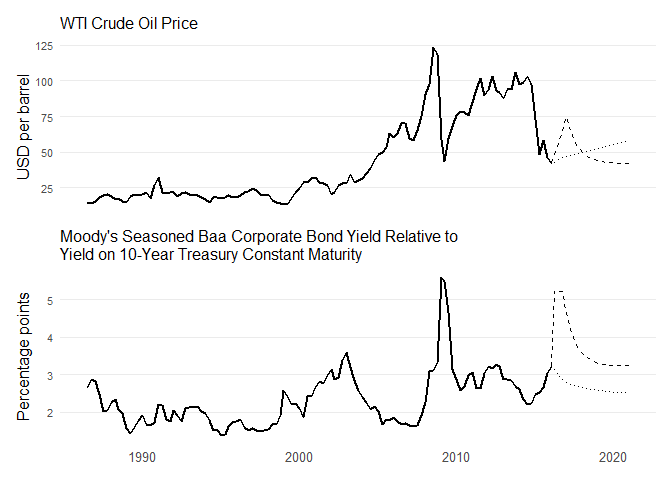
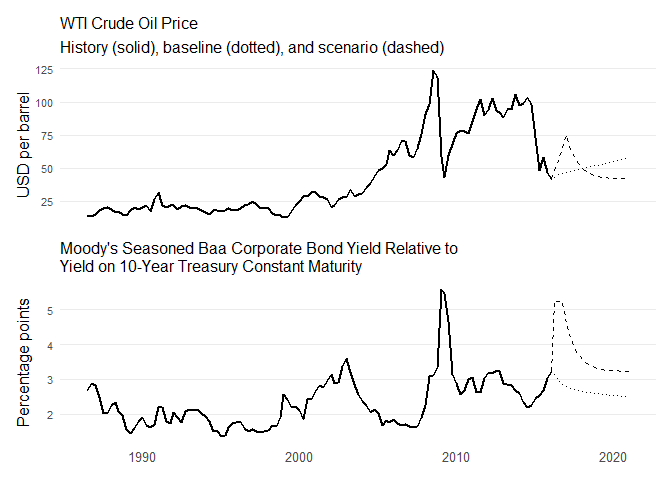
readme update

diff --git a/README.md b/README.md
@@ -76,10 +76,9 @@ compute a 20-quarter baseline (unconditional) forecast.
 ``` r
 suppressPackageStartupMessages({
 library(cforecast)
+library(tidyverse)
 library(vars)
-library(dplyr)
 library(lubridate)
-library(ggplot2)
 library(scales)
 library(patchwork)
 })
@@ -238,7 +237,7 @@ p_oil <- ggplot(df_plot_oil, aes(x = date)) +
   )+
   labs(
     title = "WTI Crude Oil Price",
-    #subtitle = "History (solid) and scenario (dashed)",
+    subtitle = "History (solid), baseline (dotted), and scenario (dashed)",
     x = NULL,
     y = "USD per barrel"
   ) +
@@ -270,9 +269,6 @@ suppressWarnings(combined_plot_scenarios)
 ```
 
 <img src="man/figures/README-unnamed-chunk-3-1.png" alt="" width="70%" />
-
-The object `cond_path` contains the multi-period conditioning trajectory
-supplied to the conditional forecasting procedure.
 
 ------------------------------------------------------------------------
 
@@ -421,6 +417,189 @@ an important distinction:
 The results emphasize the dominant role of the credit spread in shaping
 the conditional inflation forecast and the delayed, indirect influence
 of oil prices.
+
+------------------------------------------------------------------------
+
+------------------------------------------------------------------------
+
+## Creating and Analyzing Conditional Forecasts
+
+After examining the dynamic relationships estimated by the VAR and their
+implications for scenario transmission, we proceed to generate a
+conditional forecast.
+
+Creating a conditional forecast requires:
+
+- A fitted VAR model  
+- A matrix containing the imposed future paths (`cond_path`)  
+- The indices of the constrained variables (`cond_var`)
+
+The code below illustrates the implementation:
+
+``` r
+# Construct conditioning matrix
+cond_path <- cbind(BAA10YM_future, DCOILWTICO_future)
+
+# Generate conditional forecast
+fct_constr <- cforecast(
+  fit,
+  cond_path = cond_path,
+  cond_var  = 4:5
+)
+```
+
+The object `fct_constr` contains the full conditional forecast,
+including the projected paths of all variables in the system consistent
+with the imposed scenario.
+
+The figure below illustrates the conditional forecast of core inflation
+under the assumed scenario. The imposed widening in the corporate credit
+spread generates a pronounced disinflationary impulse at short horizons.
+Within the reduced-form VAR, this shock is accompanied by an implied
+accommodative response of the policy rate.
+
+The contribution of oil prices increases gradually over the forecast
+horizon, reflecting the indirect transmission of energy-cost shocks to
+core inflation through production costs and aggregate demand. By
+contrast, the initial spike in the credit spread produces a sharp
+negative effect that subsequently stabilizes at a moderate level. This
+pattern is consistent with the scenario design, in which spreads revert
+toward a slightly higher plateau rather than continuing to widen.
+
+``` r
+# Build a plotting data set for core inflation with history and both forecasts
+df_plot_infl = data.frame(
+  date = dates_0,
+  y = c(df$PCEPILFE, rep(NA,length(BAA10YM_future))),
+  y_base = c(rep(NA,nrow(df)-1),
+             tail(df$PCEPILFE,1),pred_base$fcst$PCEPILFE[,1]),
+  y_fcst = c(rep(NA,nrow(df)-1),
+             tail(df$PCEPILFE,1),fct_constr$forecast[,2])
+)
+
+# Plot historical inflation and the conditional/unconditional forecasts
+plt_fct_scenarios <-ggplot(df_plot_infl, aes(x = date)) +
+  geom_line(aes(y = y), color = "black", linewidth = 0.8) +
+  geom_line(
+    aes(y = y_fcst),
+    color = "black",
+    linewidth = 0.7,
+    linetype = "dashed"
+  ) +
+  geom_line(
+    aes(y = y_base),
+    color = "black",
+    linewidth = 0.7,
+    linetype = "dotted"
+  ) +
+  labs(
+    title = "Core Inflation Forecasts (PCE Excluding Food and Energy)",
+    #subtitle = "Conditional and unconditional projections",
+    x = NULL,
+    y = "Percent, quarterly rate",
+    caption = "Notes: The solid line shows historical core PCE inflation. The dashed line denotes the conditional \nforecast under the imposed scenario. The dotted line shows the unconditional (baseline) forecast."
+  ) +
+  theme_minimal(base_size = 12) +
+  theme(
+    panel.grid.minor = element_blank(),
+    panel.grid.major.x = element_blank(),
+    plot.title = element_text(face = "bold", size = 11),
+    plot.subtitle = element_text(size = 10),
+    axis.text.y = element_text(size = 8),
+    axis.text.x = element_text(size = 9),
+    plot.caption = element_text(
+      hjust = 0,
+      size = 9,
+      color = "grey30"
+    )
+  )
+
+suppressWarnings(plt_fct_scenarios)
+```
+
+<img src="man/figures/README-unnamed-chunk-7-1.png" alt="" width="70%" />
+
+------------------------------------------------------------------------
+
+### Decomposing the Conditional Forecast into Variable-Specific Contributions
+
+The composition of a conditional forecast can be obtained using
+`cforecast_composition()`. The function decomposes the scenario-induced
+forecast revision for a chosen target variable into contributions from
+each conditioning variable.
+
+``` r
+fct_comp <- cforecast_composition(
+  fct_constr,
+  target_var = 2
+)
+```
+
+To visualize the decomposition across forecast horizons:
+
+``` r
+# Add explicit horizon index
+fct_comp$horizon <- 1:20
+
+# Reshape to long format
+df_long <- fct_comp %>%
+  pivot_longer(
+    cols      = -horizon,
+    names_to  = "variable",
+    values_to = "contribution"
+  )
+
+# Plot stacked contributions by horizon
+ggplot(
+  df_long,
+  aes(x = factor(horizon),
+      y = contribution,
+      fill = variable)
+) +
+  geom_col(width = 0.8) +
+  labs(
+    title = "Composition of the Conditional Forecast",
+    subtitle = "Contributions by variable and forecast horizon",
+    x = "Forecast horizon (quarters ahead)",
+    y = "Contribution to forecast",
+    fill = NULL
+  ) +
+  scale_fill_viridis_d(option = "cividis", end = 0.9) +
+  theme_classic(base_size = 12) +
+  theme(
+    plot.title    = element_text(face = "bold", size = 11),
+    plot.subtitle = element_text(size = 10),
+    axis.title    = element_text(size = 11),
+    axis.text     = element_text(size = 10),
+    legend.position = "top",
+    legend.text     = element_text(size = 10),
+    legend.key.size = unit(0.35, "cm")
+  )
+```
+
+<img src="man/figures/README-unnamed-chunk-9-1.png" alt="" width="70%" />
+
+The decomposition clarifies the sources of the scenario-driven forecast
+revision. Although oil prices contribute visibly to the forecast
+composition, the variable-importance measures indicate that this effect
+is largely driven by the magnitude of the imposed oil-price path rather
+than by a strong model-implied sensitivity of core inflation to oil
+prices.
+
+This distinction is economically important.
+
+In scenarios that impose mechanically specified or stylized paths,
+variable-importance measures provide an *ex ante* indication of whether
+those assumptions are likely to materially affect the target forecast.
+More broadly, the decomposition helps discipline scenario design and
+interpretation by distinguishing between:
+
+- Effects arising from strong model-implied linkages, and  
+- Effects driven primarily by large imposed deviations.
+
+This directly informs policy communication. It identifies the pivotal
+elements of the narrative and highlights which imposed details are
+economically consequential for the variables of interest.
 
 ------------------------------------------------------------------------
 
